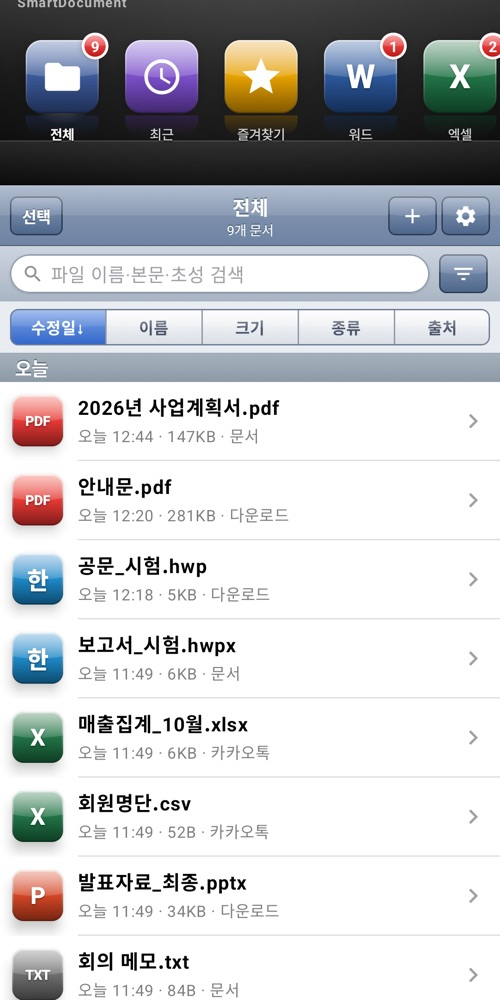
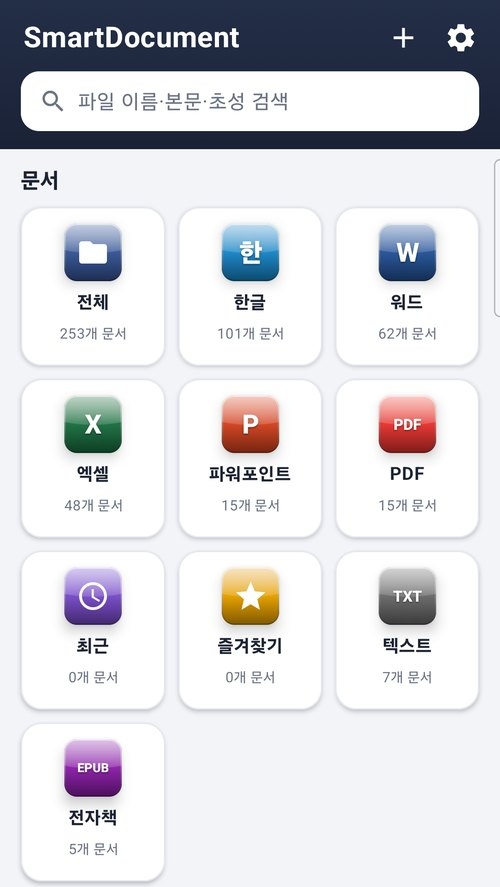
스마트도큐먼트 가이드 갱신(0.4.6): 새 홈·처음 설정 캡처, 비밀번호 문서 열기, ⋮ 메뉴·정렬 단추 설명

diff --git a/src/content/blog/smartdocument-guide.ko.md b/src/content/blog/smartdocument-guide.ko.md
@@ -18,6 +18,7 @@ category: ai
 - **읽기·고치기·저장**: 앱 하나로 한글(HWP·HWPX), 워드, 엑셀, 파워포인트를 열고 바로 수정한다. 고친 내용은 원래 형식 그대로 저장한다.
 - **옛 문서·특이한 형식도**: 한글 97 이전(HWP 3.0) 문서, 한셀·한쇼, 엑셀 바이너리(.xlsb), Apple Pages·Numbers·Keynote, 전자책(EPUB), XPS까지 열린다.
 - **보내기**: 원본·PDF·압축(ZIP) 중 골라 카카오톡·메일·드라이브로 보낸다.
+- **비밀번호 문서 열기**: PDF·한글·워드·엑셀·파워포인트에 걸린 비밀번호를 넣으면 보기 전용으로 열린다. 원본의 비밀번호는 그대로 둔다.
 - **AI에게 분석 맡기기**: 요약, 핵심 정리, 표·숫자 분석, 검토·교정, 쉽게 설명을 골라 Gemini·ChatGPT·Claude 앱으로 바로 넘긴다.
 
 | 종류 | 여는 형식 |
@@ -30,13 +31,16 @@ category: ai
 
 ## 1. 처음 실행: 문서를 알아서 찾아 준다
 
-처음 켜면 '모든 파일 접근' 권한을 묻는다. 허용하면 폰 전체를 훑어 문서를 모아 온다. 허용하지 않고 특정 폴더만 골라도 된다.
+처음 켜면 **'문서를 어디서 찾을까요?'** 를 한 번만 묻는다. **폰 전체에서 찾기**(추천)를 누르고, 다음 화면에서 '권한 허용'을 켠 뒤 뒤로 가면 바로 문서를 모아 온다. 특정 폴더만 골라도 된다. 다만 안드로이드는 Download 폴더 자체를 고르지 못하게 막아 두어서, 다운로드한 문서까지 보려면 '폰 전체에서 찾기'가 편하다. 이어서 사용 방법 안내 4장이 나오고, 설정에서 다시 볼 수 있다.
 
-<p style="text-align:center"><img src="/blog-assets/smartdocument-guide/1_home.jpg" alt="스마트도큐먼트 홈 화면: 위쪽에 전체·최근·즐겨찾기·워드·엑셀 아이콘, 아래에 PDF·한글·엑셀·파워포인트 문서 목록" loading="lazy" style="width:100%;max-width:340px;border-radius:14px;border:1px solid rgba(128,128,128,.35)"></p>
+<p style="text-align:center"><img src="/blog-assets/smartdocument-guide/0_setup.jpg" alt="처음 설정 화면: 문서를 어디서 찾을까요? 추천 폰 전체에서 찾기와 허용하러 가기 단추, 아래에 내가 고른 폴더만 찾기" loading="lazy" style="width:100%;max-width:340px;border-radius:14px;border:1px solid rgba(128,128,128,.35)"></p>
 
-- 맨 위 아이콘 줄에서 **전체·최근·즐겨찾기·워드·엑셀·파워포인트·한글·PDF** 를 바로 고른다. 빨간 숫자는 새로 들어온 문서 수다.
+<p style="text-align:center"><img src="/blog-assets/smartdocument-guide/1_home.jpg" alt="스마트도큐먼트 홈 화면: 위에 검색창, 아래에 전체·한글·워드·엑셀·파워포인트·PDF·최근·즐겨찾기·텍스트·전자책 버튼과 문서 수" loading="lazy" style="width:100%;max-width:340px;border-radius:14px;border:1px solid rgba(128,128,128,.35)"></p>
+
+- 홈의 **전체·한글·워드·엑셀·파워포인트·PDF** 버튼을 누르면 폰 안의 그 종류 문서가 한 번에 나온다. 최근·즐겨찾기도 버튼 하나로 연다.
 - 검색창은 **파일 이름뿐 아니라 본문 내용, 초성(ㅅㅇㄱㅎ)** 까지 찾는다.
-- 수정일·이름·크기·종류·**출처(카카오톡·다운로드 등)** 로 정렬한다.
+- 목록의 **정렬** 단추로 수정일·이름·크기·종류·**출처(카카오톡·다운로드 등)** 별로 보고, 기간·크기로 거를 수 있다.
+- 문서 줄 끝 **⋮** 를 누르면 편집·공유·이름 바꾸기·삭제 같은 메뉴가 나온다.
 
 ## 2. 문서 읽고 고치기
 
@@ -82,9 +86,10 @@ category: ai
 
 ## 5. 설정
 
-<p style="text-align:center"><img src="/blog-assets/smartdocument-guide/6_settings.jpg" alt="설정 화면: 문서 찾기(폴더 추가·전체 문서 찾기·숨김 파일), 문서를 누르면(물어보기·바로 보기·바로 편집), 공유 즐겨찾기, 본문 내용 검색, 이전 버전 보관 개수" loading="lazy" style="width:100%;max-width:340px;border-radius:14px;border:1px solid rgba(128,128,128,.35)"></p>
+<p style="text-align:center"><img src="/blog-assets/smartdocument-guide/6_settings.jpg" alt="설정 화면: 언어, 문서 찾기(폴더 추가·폰 전체에서 찾기·숨김 파일·지금 다시 찾기), 사용 방법, 문서를 누르면(물어보기·바로 보기·바로 편집)" loading="lazy" style="width:100%;max-width:340px;border-radius:14px;border:1px solid rgba(128,128,128,.35)"></p>
 
-- **문서를 누르면**: 물어보기 / 바로 보기 / 바로 편집 중에서 고른다.
+- **문서를 누르면**: 물어보기 / 바로 보기 / 바로 편집 중에서 고른다(처음엔 바로 보기).
+- **사용 방법**: 처음 실행 때 본 안내 4장을 다시 본다.
 - **이전 버전 보관**: 저장할 때마다 이전 내용을 폰 안에 보관해서, '정보·버전 기록'에서 되돌릴 수 있다(5~50개).
 - **본문 내용 검색**: 켜 두면 문서 속 글자로도 찾는다.
 
@@ -94,7 +99,11 @@ category: ai
 
 **문서가 밖으로 나가나요?** 읽기·고치기·검색은 모두 폰 안에서만 처리한다. 문서가 밖으로 나가는 건 내가 직접 공유하거나 'AI에게 분석 맡기기'로 AI 앱에 보낼 때뿐이다.
 
-**안 열리는 문서도 있나요?** 작성자가 보호해 둔 배포용 한글 문서는 볼 수만 있고 고치거나 AI로 보낼 수 없다. 암호가 걸린 문서는 "암호가 걸린 문서"라고 알려 준다.
+**비밀번호가 걸린 문서도 열리나요?** 열린다. 카드·급여 명세서 같은 PDF, 한글(HWP·HWPX·HWP 3.0), 워드·엑셀·파워포인트, 오픈오피스 문서에 걸린 비밀번호를 넣으면 보기 전용으로 열린다. 원래 파일의 비밀번호는 그대로이고, 비밀번호 없는 사본이 필요하면 '더 보기 → 다른 이름으로 저장'을 쓰면 된다.
+
+<p style="text-align:center"><img src="/blog-assets/smartdocument-guide/password.jpg" alt="비밀번호가 걸린 PDF를 열 때 뜨는 비밀번호 입력 창: 취소·열기 단추" loading="lazy" style="width:100%;max-width:340px;border-radius:14px;border:1px solid rgba(128,128,128,.35)"></p>
+
+**안 열리는 문서도 있나요?** 작성자가 보호해 둔 배포용 한글 문서는 볼 수만 있고 고치거나 AI로 보낼 수 없다. 옛 워드(.doc)나 Apple 문서에 걸린 암호는 아직 열지 못한다.
 
 ## 테스터로 참여하기
 

diff --git a/src/content/blog/smartdocument-guide.en.md b/src/content/blog/smartdocument-guide.en.md
@@ -18,6 +18,7 @@ It's currently in **closed testing** on Google Play. This post walks through how
 - **Read, edit, save**: open and edit Hangul (HWP, HWPX), Word, Excel and PowerPoint files in one app, and save them back in their original format.
 - **Old and unusual formats**: Hangul 97-era HWP 3.0 files, Hancom Cell/Show, Excel binary (.xlsb), Apple Pages/Numbers/Keynote, EPUB e-books and XPS.
 - **Send**: share as the original, as a PDF or as a ZIP to messengers, email or cloud drives.
+- **Password-protected files**: enter the password to open protected PDF, Hangul, Word, Excel and PowerPoint files read-only. The original keeps its password.
 - **Ask AI to analyze**: pick Summarize, Key points & to-dos, Analyze tables & numbers, Proofread & review or Explain simply, and send the document straight to Gemini, ChatGPT or Claude.
 
 | Type | Formats |
@@ -30,13 +31,16 @@ It's currently in **closed testing** on Google Play. This post walks through how
 
 ## 1. First launch: it finds your documents for you
 
-On first launch the app asks for "All files access". Allow it and the app scans the whole phone; or skip it and pick specific folders instead.
+On first launch the app asks one question: **where should it look for documents?** Tap **Search the whole phone** (recommended), turn on "Allow permission" on the next screen and press Back — the scan starts right away. You can also pick specific folders instead. Android doesn't let apps pick the Download folder itself, so "Search the whole phone" is the easy way to include your downloads. A four-page how-to follows, and you can replay it from Settings.
 
-<p style="text-align:center"><img src="/blog-assets/smartdocument-guide/1_home.jpg" alt="SmartDocument home screen: All, Recent, Favorites, Word and Excel icons at the top, and a list of PDF, Hangul, Excel and PowerPoint documents below" loading="lazy" style="width:100%;max-width:340px;border-radius:14px;border:1px solid rgba(128,128,128,.35)"></p>
+<p style="text-align:center"><img src="/blog-assets/smartdocument-guide/0_setup.jpg" alt="First-run setup screen: where should we look for documents, with the recommended Search the whole phone card and an Allow access button, and Only search folders I choose below" loading="lazy" style="width:100%;max-width:340px;border-radius:14px;border:1px solid rgba(128,128,128,.35)"></p>
 
-- The icon row at the top jumps straight to **All, Recent, Favorites, Word, Excel, PowerPoint, Hangul and PDF**. Red badges count new documents.
+<p style="text-align:center"><img src="/blog-assets/smartdocument-guide/1_home.jpg" alt="SmartDocument home screen: search bar at the top and buttons for All, Hangul, Word, Excel, PowerPoint, PDF, Recent, Favorites, Text and eBooks with document counts" loading="lazy" style="width:100%;max-width:340px;border-radius:14px;border:1px solid rgba(128,128,128,.35)"></p>
+
+- Tap **All, Hangul, Word, Excel, PowerPoint or PDF** on the home screen to see every document of that kind on your phone. Recent and Favorites are one tap away too.
 - Search covers **file names and the text inside documents**, and even Korean initial consonants.
-- Sort by modified date, name, size, type or **source** (messenger, Downloads and so on).
+- The **Sort** button in the list sorts by modified date, name, size, type or **source** (messenger, Downloads and so on), and filters by date and size.
+- Tap **⋮** at the end of a row for edit, share, rename, delete and more.
 
 ## 2. Reading and editing
 
@@ -82,9 +86,10 @@ Here's where SmartDocument helps: **AI apps like Gemini can't take Hangul (HWP, 
 
 ## 5. Settings
 
-<p style="text-align:center"><img src="/blog-assets/smartdocument-guide/6_settings.jpg" alt="Settings screen: document discovery (add folder, find all documents, hidden files), what happens when you tap a document (ask, view, edit), share favorites, full-text search and number of previous versions to keep" loading="lazy" style="width:100%;max-width:340px;border-radius:14px;border:1px solid rgba(128,128,128,.35)"></p>
+<p style="text-align:center"><img src="/blog-assets/smartdocument-guide/6_settings.jpg" alt="Settings screen: language, document discovery (add folder, search the whole phone, hidden files, search now), how to use, and what happens when you tap a document (ask, view, edit)" loading="lazy" style="width:100%;max-width:340px;border-radius:14px;border:1px solid rgba(128,128,128,.35)"></p>
 
-- **When you tap a document**: ask, open for viewing, or open for editing.
+- **When you tap a document**: ask, open for viewing, or open for editing (viewing by default).
+- **How to use**: replay the four-page guide from first launch.
 - **Previous versions**: every save keeps the previous content on the phone, so you can roll back from "Info & versions" (5 to 50 versions).
 - **Full-text search**: find documents by the words inside them.
 
@@ -94,7 +99,11 @@ Here's where SmartDocument helps: **AI apps like Gemini can't take Hangul (HWP, 
 
 **Do my documents leave the phone?** Reading, editing and search all happen on the phone. A document only leaves when you share it yourself or send it to an AI app with "Ask AI to analyze".
 
-**Is there anything it can't open?** Distribution-only Hangul files protected by their author can be viewed but not edited or sent to AI. Password-protected files are reported as such.
+**Can it open password-protected files?** Yes. Enter the password for protected PDFs (bank or pay statements, for example), Hangul (HWP, HWPX, HWP 3.0), Word, Excel, PowerPoint and OpenDocument files, and they open read-only. The original file keeps its password; to keep a copy without it, use More → Save as.
+
+<p style="text-align:center"><img src="/blog-assets/smartdocument-guide/password.jpg" alt="Password prompt shown when opening a protected PDF, with Cancel and Open buttons" loading="lazy" style="width:100%;max-width:340px;border-radius:14px;border:1px solid rgba(128,128,128,.35)"></p>
+
+**Is there anything it can't open?** Distribution-only Hangul files protected by their author can be viewed but not edited or sent to AI. Passwords on old Word (.doc) files and Apple documents can't be opened yet.
 
 ## Join the beta
 
